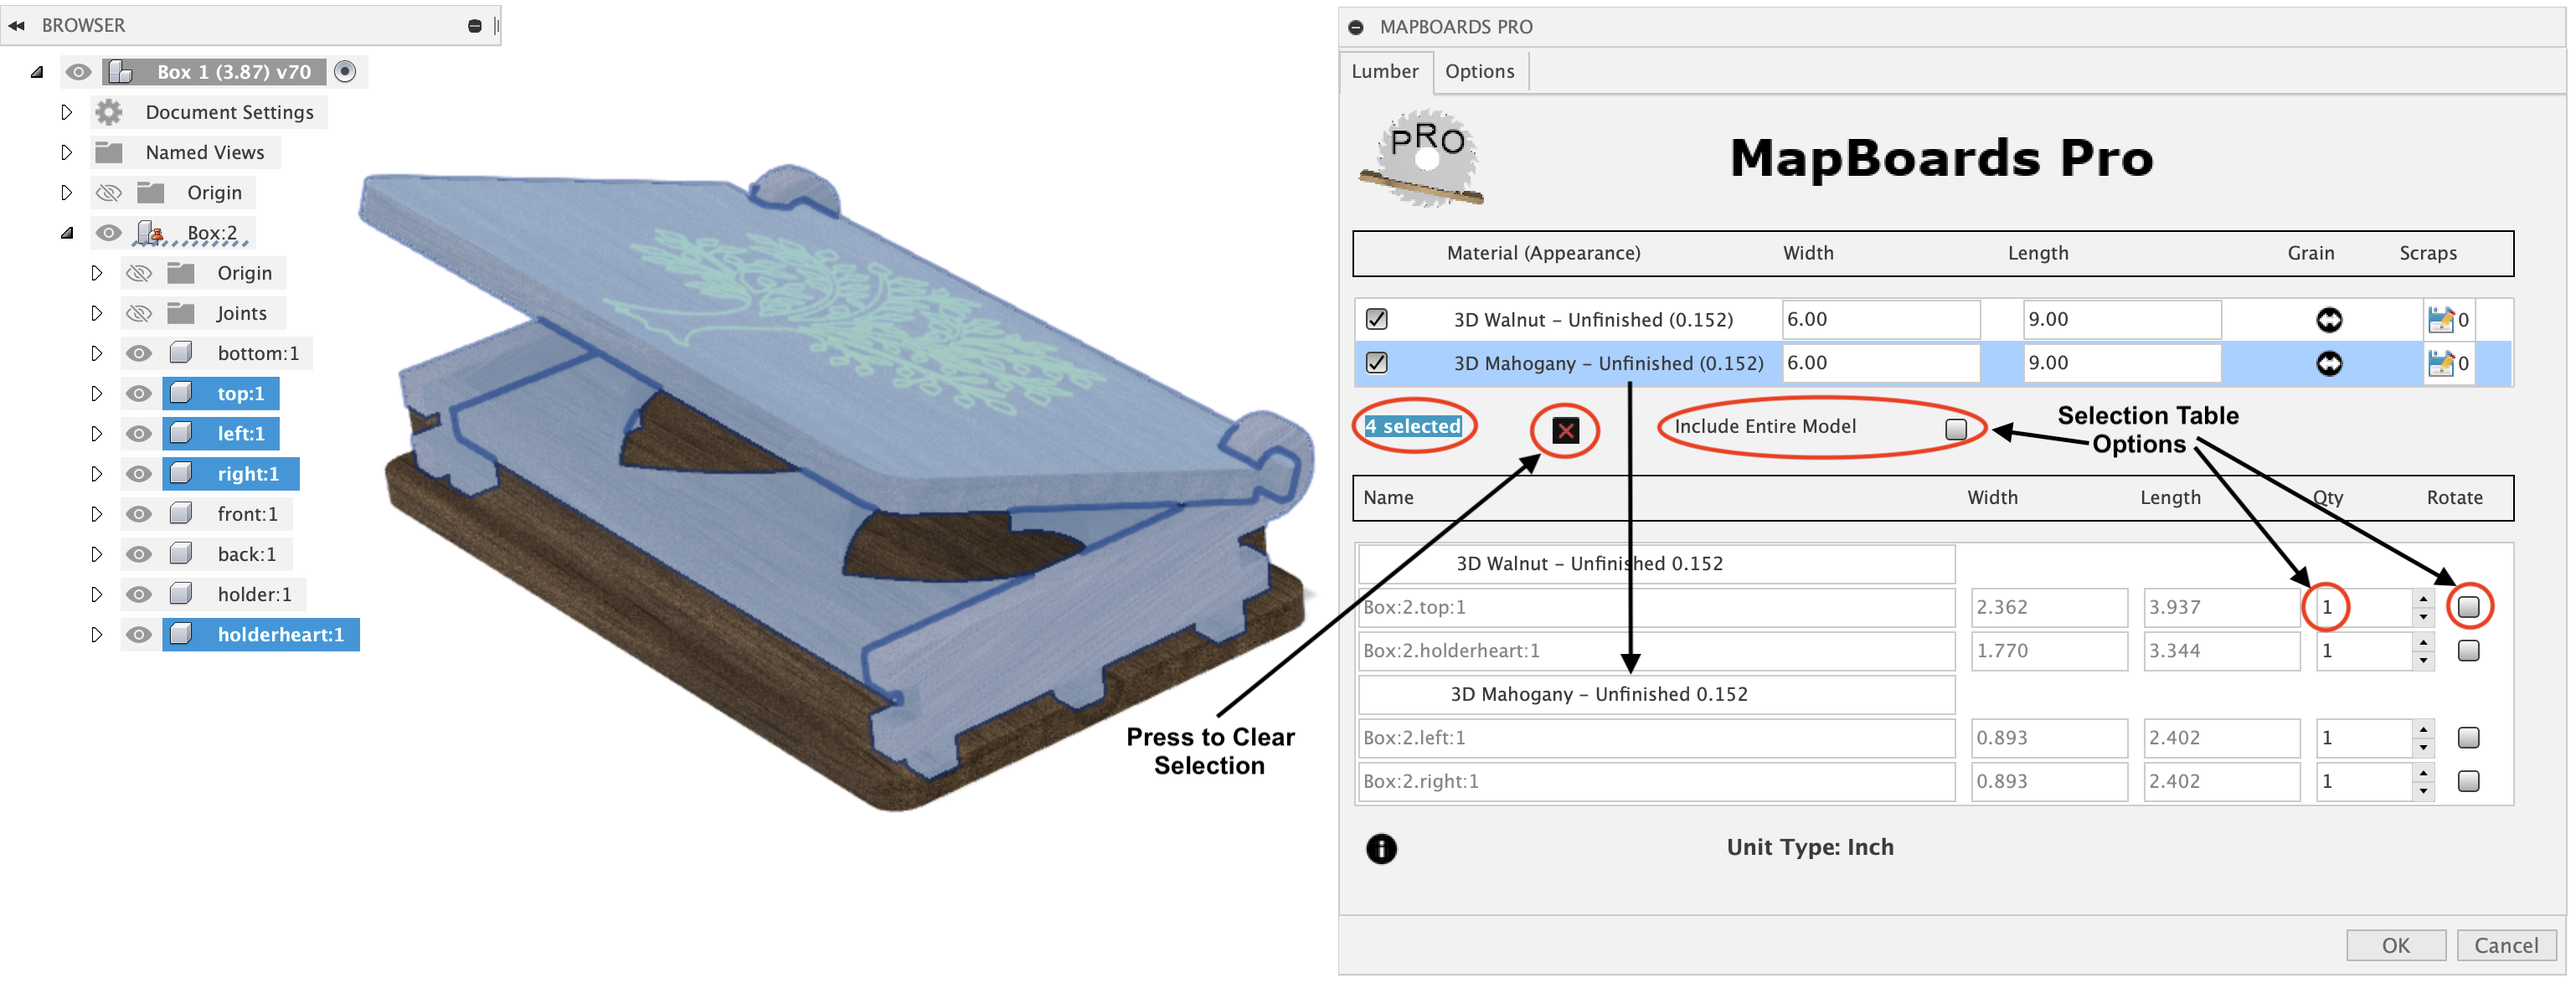
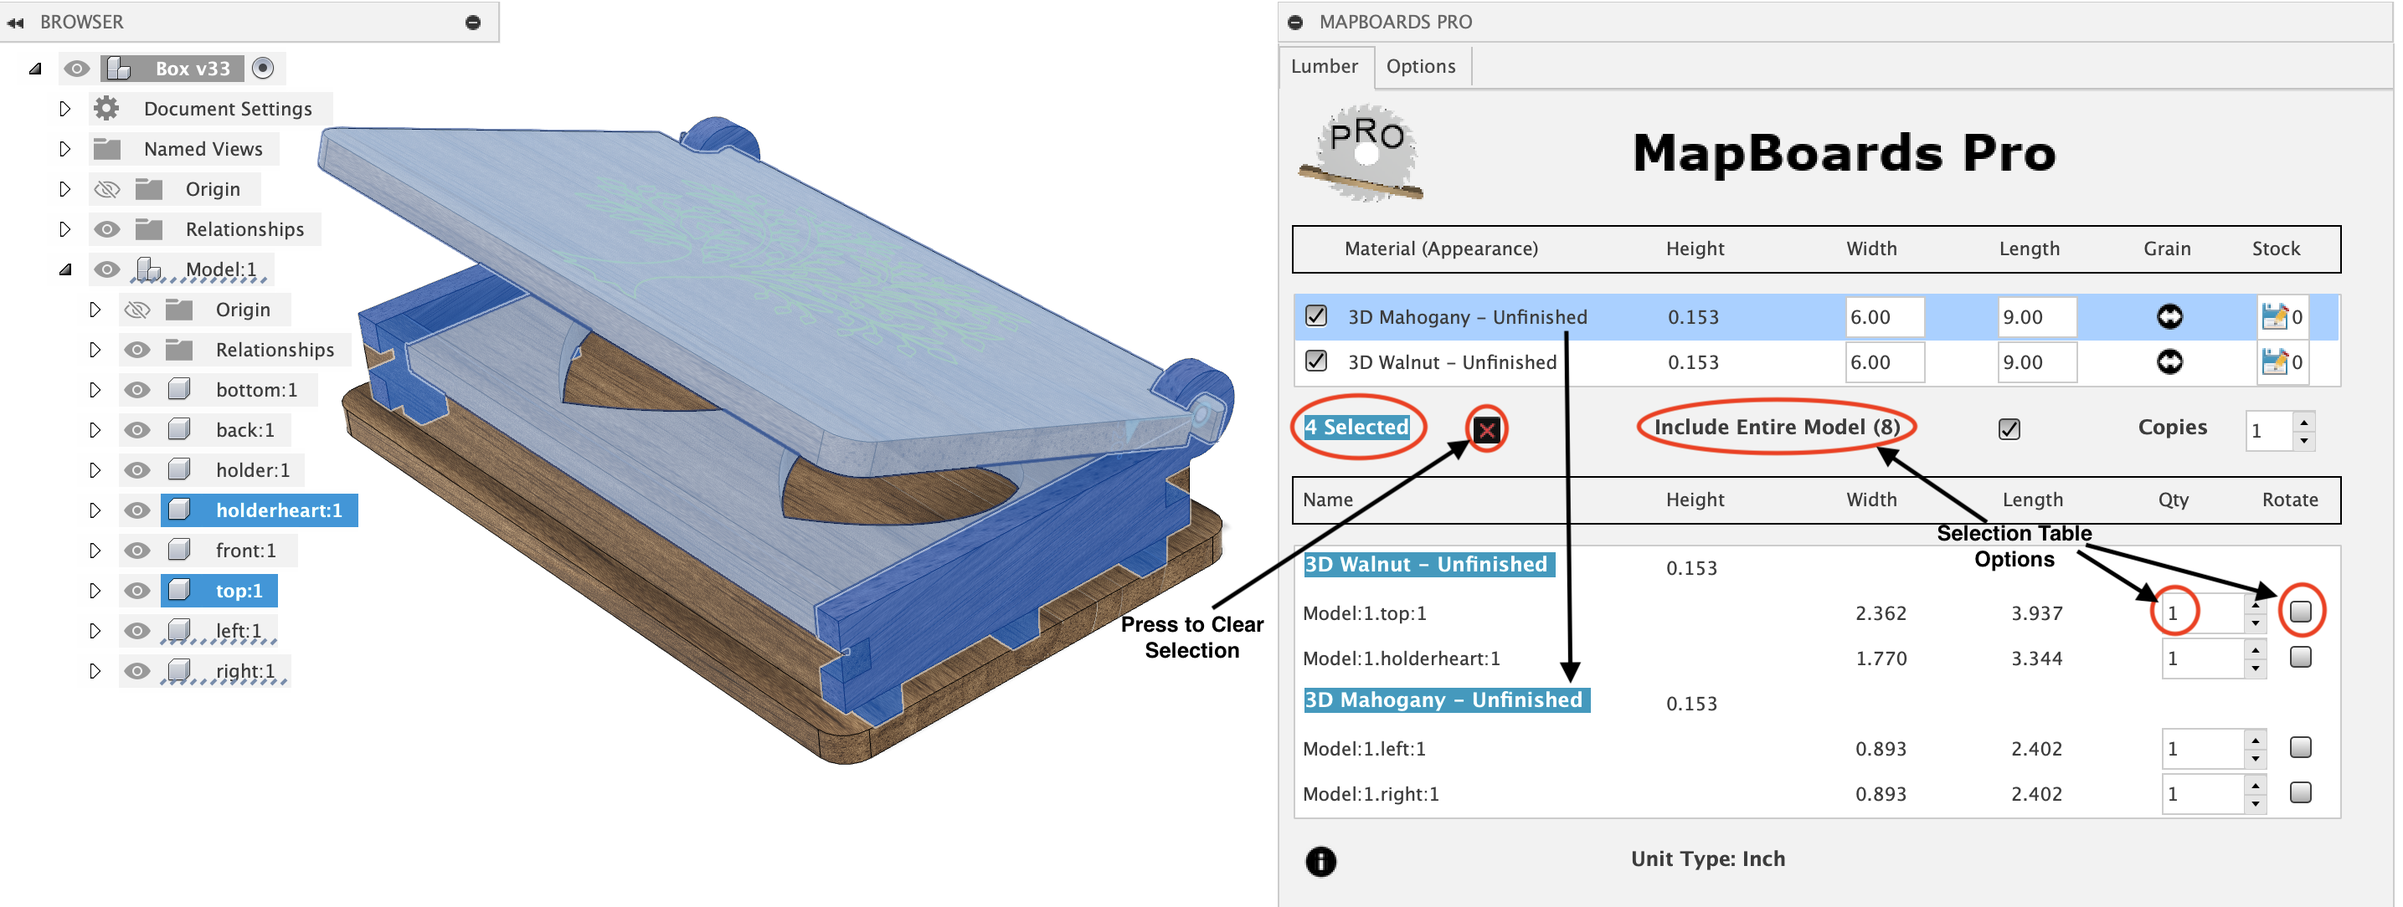
new images

diff --git a/source/options/copies.rst b/source/options/copies.rst
@@ -11,7 +11,7 @@ This option maps multiple copies of the current selection or, if the option
 When set to one, the default, only one copy of each component will be mapped with the
 option to set the quantity for individually selected components.
 
-.. image:: /_static/images/Copies.jpg
+.. image:: /_static/images/Copies.png
     :width: 60%
     :align: center
 

diff --git a/source/options/include-all.rst b/source/options/include-all.rst
@@ -8,7 +8,7 @@ When selected, all component bodies will be included in the map.
 Even with this option set, you can still select one or more components and make
 changes to their quantity and grain direction used for creating the map.
 
-.. image:: /_static/images/IncludeAll.jpg
+.. image:: /_static/images/IncludeAll.png
     :width: 50 %
     :align: center
 

diff --git a/source/pre-mapping/material_management.rst b/source/pre-mapping/material_management.rst
@@ -10,7 +10,7 @@ The lumber tab presents a list of board types described by their materials and t
 which is found in the model. With each board type you should provide a default size for Width
 and Length to be used when mapping.
 
-.. image:: /_static/images/edit_scraps.png
+.. image:: /_static/images/edit_stock.png
     :width: 80 %
     :align: center
 
